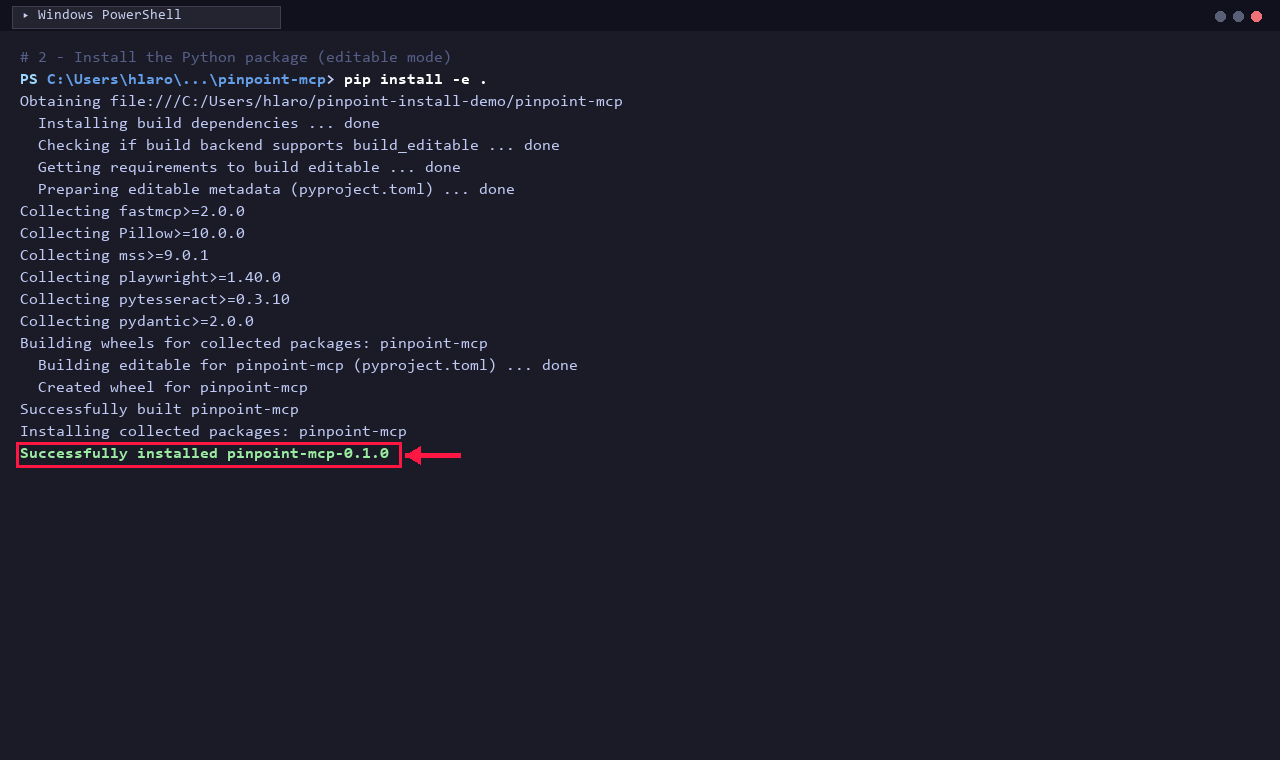
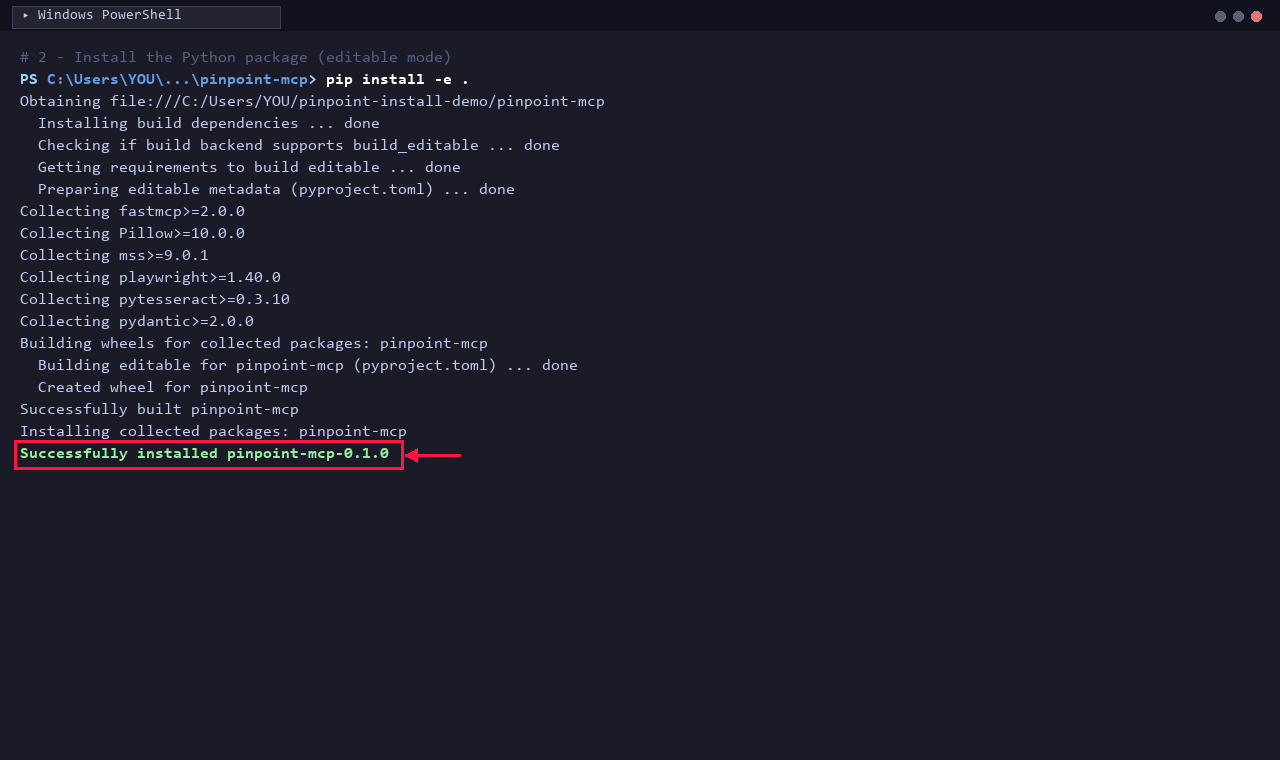
Redact username + multi-match annotation on the clone slide
Privacy: replaced the author's real Windows login (hlaro) with
the placeholder YOU everywhere it appeared in rendered paths
(PowerShell prompt, pip obtaining file URL, ms-playwright cache
location). The config JSON slide already used YOU.

Clone slide (03) now demonstrates pinpoint's multi-match capability:
both commands that matter are annotated — the `git clone ...` line
AND the `cd pinpoint-mcp` line that follows. Each has its own red
rect + arrow. This is the actual value prop: find every occurrence
of something clickable, not just the first.

Annotation coordinates recomputed from font metrics (Consolas Bold
16px) since the prompt prefix shrank when hlaro -> YOU, shifting
command x-positions by ~19 px. Widths now measured via
ImageFont.getbbox instead of eyeballed.

Changed region(s): [[0.0, 0.575, 0.3438, 0.6355], [0.0938, 0.0908, 0.4688, 0.1513]]

diff --git a/docs/install/_generate_slides.py b/docs/install/_generate_slides.py
@@ -236,15 +236,19 @@ def _draw_arrow_head(draw, p1, p2, color):
 
 
 # ──────────────────────────────────────────────────────────────────────────────
-# Slides
+# Slides (username-redacted: uses "YOU" instead of the author's login)
+# Slide 01 = Tesseract prereq (web capture, annotated externally)
+# Slide 02 = GitHub repo page (web capture, annotated externally)
+# Slides 03-07 generated below + annotated via overlay_annotation().
 # ──────────────────────────────────────────────────────────────────────────────
 
-# Slide 2: Clone
+# Slide 03: Clone
+slide_clone = OUT / "slide_03_clone.png"
 make_terminal(
     "Windows PowerShell",
     [
-        ("comment", "# 1 - Clone the repo"),
-        ("prompt+cmd", r"PS C:\Users\hlaro\pinpoint-install-demo>||git clone https://github.com/hlsitechio/pinpoint-mcp.git"),
+        ("comment", "# 1 - Clone the repo, then move into the checkout"),
+        ("prompt+cmd", r"PS C:\Users\YOU\pinpoint-install-demo>||git clone https://github.com/hlsitechio/pinpoint-mcp.git"),
         ("output",  "Cloning into 'pinpoint-mcp'..."),
         ("output",  "remote: Enumerating objects: 35, done."),
         ("output",  "remote: Counting objects: 100% (35/35), done."),
@@ -253,19 +257,27 @@ make_terminal(
         ("output",  "Receiving objects: 100% (35/35), 12.34 KiB | 2.00 MiB/s, done."),
         ("success", "Resolving deltas: 100% (6/6), done."),
         ("blank", ""),
-        ("prompt+cmd", r"PS C:\Users\hlaro\pinpoint-install-demo>||cd pinpoint-mcp"),
-        ("prompt+cmd", r"PS C:\Users\hlaro\pinpoint-install-demo\pinpoint-mcp>||"),
+        ("prompt+cmd", r"PS C:\Users\YOU\pinpoint-install-demo>||cd pinpoint-mcp"),
+        ("prompt+cmd", r"PS C:\Users\YOU\pinpoint-install-demo\pinpoint-mcp>||"),
     ],
-    OUT / "slide_02_clone.png",
+    slide_clone,
 )
+# Dual annotation: both commands matter (clone + cd into checkout)
+overlay_annotation(slide_clone,
+                   rect=(368, 67, 514, 26),
+                   arrow_from=(945, 80), arrow_to=(889, 80))
+overlay_annotation(slide_clone,
+                   rect=(368, 265, 148, 26),
+                   arrow_from=(580, 278), arrow_to=(523, 278))
 
-# Slide 3: pip install
+# Slide 04: pip install
+slide_pip = OUT / "slide_04_pip.png"
 make_terminal(
     "Windows PowerShell",
     [
         ("comment", "# 2 - Install the Python package (editable mode)"),
-        ("prompt+cmd", r"PS C:\Users\hlaro\...\pinpoint-mcp>||pip install -e ."),
-        ("output",  "Obtaining file:///C:/Users/hlaro/pinpoint-install-demo/pinpoint-mcp"),
+        ("prompt+cmd", r"PS C:\Users\YOU\...\pinpoint-mcp>||pip install -e ."),
+        ("output",  "Obtaining file:///C:/Users/YOU/pinpoint-install-demo/pinpoint-mcp"),
         ("output",  "  Installing build dependencies ... done"),
         ("output",  "  Checking if build backend supports build_editable ... done"),
         ("output",  "  Getting requirements to build editable ... done"),
@@ -283,20 +295,24 @@ make_terminal(
         ("output",  "Installing collected packages: pinpoint-mcp"),
         ("success", "Successfully installed pinpoint-mcp-0.1.0"),
     ],
-    OUT / "slide_03_pip.png",
+    slide_pip,
 )
+overlay_annotation(slide_pip,
+                   rect=(16, 442, 385, 25),
+                   arrow_from=(460, 455), arrow_to=(405, 455))
 
-# Slide 4: Playwright install
+# Slide 05: Playwright install
+slide_pw = OUT / "slide_05_playwright.png"
 make_terminal(
     "Windows PowerShell",
     [
         ("comment", "# 3 - Install the Playwright Chromium browser (~170 MB)"),
-        ("prompt+cmd", r"PS C:\Users\hlaro\...\pinpoint-mcp>||playwright install chromium"),
+        ("prompt+cmd", r"PS C:\Users\YOU\...\pinpoint-mcp>||playwright install chromium"),
         ("output", "Downloading Chromium 131.0.6778.33 (playwright build v1148) from"),
         ("output", "  https://cdn.playwright.dev/builds/chromium/1148/chromium-win64.zip"),
         ("info",   "    167.2 Mb [====================] 100%  0.0s"),
         ("output", "Chromium 131.0.6778.33 (playwright build v1148) downloaded to"),
-        ("output", "  C:\\Users\\hlaro\\AppData\\Local\\ms-playwright\\chromium-1148"),
+        ("output", "  C:\\Users\\YOU\\AppData\\Local\\ms-playwright\\chromium-1148"),
         ("output", "Downloading FFMPEG playwright build v1011 from"),
         ("output", "  https://cdn.playwright.dev/builds/ffmpeg/1011/ffmpeg-win64.zip"),
         ("info",   "    2.3 Mb [====================] 100%  0.0s"),
@@ -304,10 +320,14 @@ make_terminal(
         ("blank", ""),
         ("success","\u2713  Chromium + ffmpeg ready for pinpoint_capture_url"),
     ],
-    OUT / "slide_04_playwright.png",
+    slide_pw,
 )
+overlay_annotation(slide_pw,
+                   rect=(16, 310, 470, 26),
+                   arrow_from=(555, 322), arrow_to=(490, 322))
 
-# Slide 5: Config file
+# Slide 06: Config file
+slide_cfg = OUT / "slide_06_config.png"
 make_json_viewer(
     "claude_desktop_config.json",
     '''{
@@ -323,10 +343,14 @@ make_json_viewer(
     }
   }
 }''',
-    OUT / "slide_05_config.png",
+    slide_cfg,
 )
+overlay_annotation(slide_cfg,
+                   rect=(105, 92, 555, 175),
+                   arrow_from=(730, 180), arrow_to=(665, 180))
 
-# Slide 6: Verify — simulate a pinpoint_list_monitors MCP call
+# Slide 07: Verify — simulate a pinpoint_list_monitors MCP call
+slide_verify = OUT / "slide_07_verify.png"
 make_terminal(
     "Claude Desktop - MCP call",
     [
@@ -352,7 +376,10 @@ make_terminal(
         ("blank", ""),
         ("success", "\u2713  pinpoint MCP connected. All 9 tools ready."),
     ],
-    OUT / "slide_06_verify.png",
+    slide_verify,
 )
+overlay_annotation(slide_verify,
+                   rect=(16, 486, 450, 25),
+                   arrow_from=(530, 498), arrow_to=(470, 498))
 
-print("generated 5 terminal/code slides")
+print("generated 5 terminal/code slides with dogfood annotations + username redacted")
